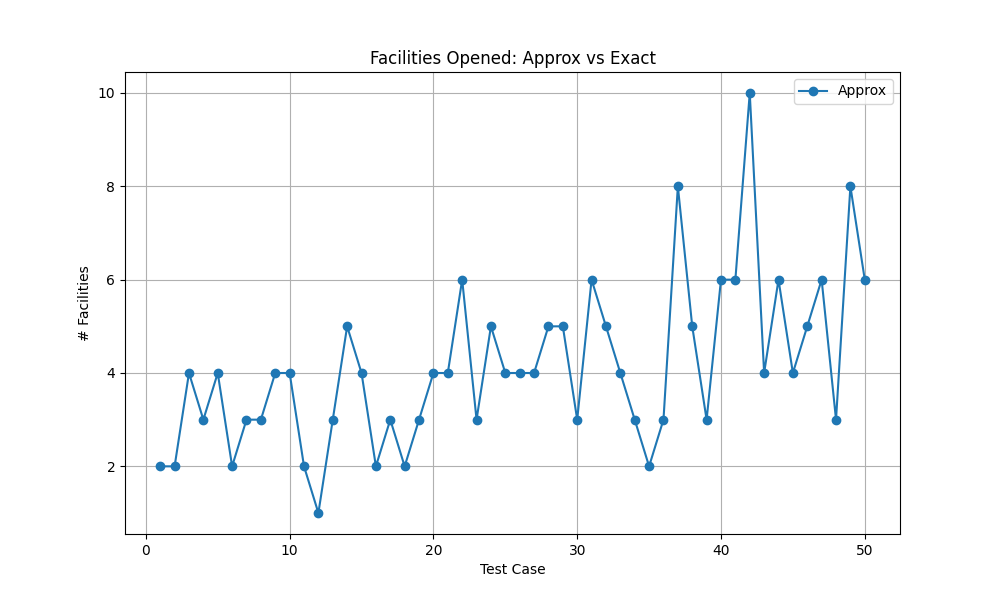
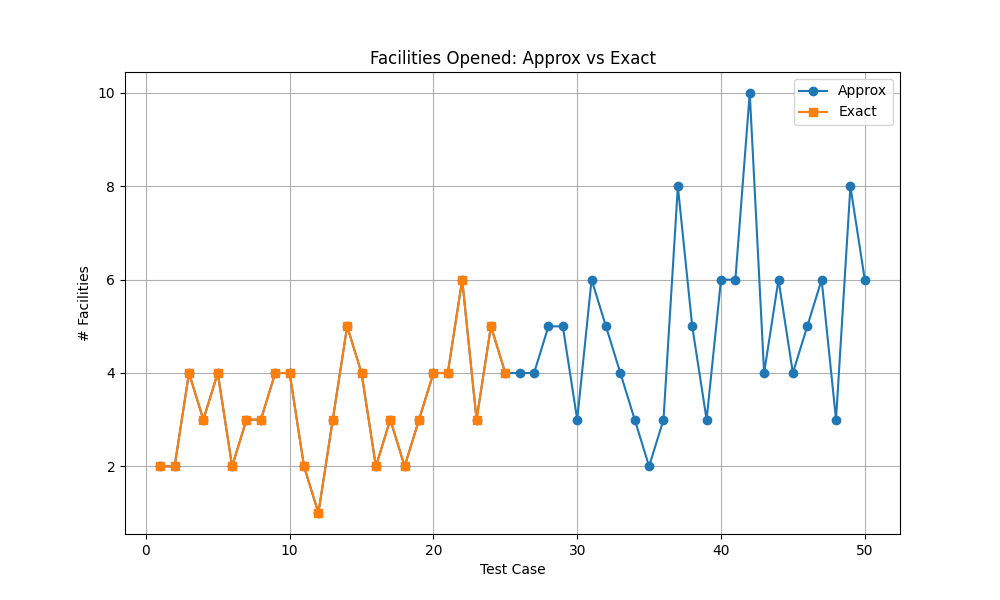
change my out put to include total distance, made my plot parser able to parser the exact solution code

diff --git a/blake_approx_solution/make_plots.py b/blake_approx_solution/make_plots.py
@@ -7,7 +7,16 @@ import matplotlib.pyplot as plt
 BASE_DIR = os.path.dirname(os.path.abspath(__file__))
 TESTCASE_DIR = os.path.join(BASE_DIR, "..", "testcases")
 APPROX_OUT_DIR = os.path.join(BASE_DIR, "test")
-EXACT_OUT_DIR = os.path.join(BASE_DIR, "..", "exact_solution", "outputs")
+# EXACT_OUT_DIR = os.path.join(BASE_DIR, "..", "exact_solution", "outputs")
+
+EXACT_OUT_DIR = os.path.join(
+    BASE_DIR,
+    "..",
+    "exact_solution",
+    "realistic_test_cases",
+    "outputs"
+)
+
 
 SOLVER = os.path.join(BASE_DIR, "facility_location_approx_blake.py")
 
@@ -46,33 +55,100 @@ def parse_input(path):
 # Output Parsing
 # -------------------------------------------------------------
 def parse_output(path):
+    """
+    Parse either:
+      (A) Approx format from Blake/Dustin:
+
+            Total distance: ...
+            Open facilities:
+            F1 F3 F7
+
+            Coverage:
+            F1 covers: C1 C4
+            F3 covers: C2
+            F7 covers: C3 C5
+
+      (B) Exact solver format:
+
+            === OPTIMAL SOLUTION FOUND ===
+            Coverage distance: 61.56
+            Facilities chosen (2):
+              F4 at (60.04, 31.82)
+              F5 at (66.98, 96.69)
+
+            Coverage mapping:
+            F4 covers: C1, C2, C3, C5, C6, C8, C9
+            F5 covers: C1, C2, C4, C7, C9
+    """
     if not os.path.exists(path):
         return None, None
 
     with open(path) as f:
-        lines = f.read().splitlines()
+        lines = [line.rstrip("\n") for line in f]
 
+    # --------- Case A: approx format ("Open facilities") ----------
+    if any("Open facilities" in line for line in lines):
+        mode = None
+        open_facs: list[str] = []
+        coverage: dict[str, list[str]] = {}
+
+        for line in lines:
+            s = line.strip()
+            if not s:
+                continue
+            if s.startswith("Open facilities"):
+                mode = "open"
+                continue
+            if s.startswith("Coverage"):
+                mode = "cov"
+                continue
+            if mode == "open":
+                # line with facility names: "F1 F3 F7"
+                open_facs = s.split()
+            if mode == "cov" and "covers:" in s:
+                fac, rest = s.split("covers:")
+                fac = fac.strip()
+                coverage[fac] = rest.strip().split()
+
+        if not open_facs:
+            return None, None
+        return open_facs, coverage
+
+    # --------- Case B: exact solver format ("Facilities chosen" / "Coverage mapping") ----------
     mode = None
-    open_facs = []
-    coverage = {}
+    open_facs: list[str] = []
+    coverage: dict[str, list[str]] = {}
 
     for line in lines:
         s = line.strip()
         if not s:
             continue
-        if s.startswith("Open"):
-            mode = "open"
+
+        if s.startswith("Facilities chosen"):
+            mode = "chosen"
             continue
-        if s.startswith("Coverage"):
-            mode = "cov"
+        if s.startswith("Coverage mapping"):
+            mode = "covmap"
             continue
-        if mode == "open":
-            open_facs = s.split()
-        if mode == "cov" and "covers:" in s:
+
+        if mode == "chosen":
+            # Example: "F2 at (54.5, 90.05)"
+            parts = s.split()
+            if parts:
+                fac_name = parts[0]   # "F2"
+                open_facs.append(fac_name)
+
+        elif mode == "covmap" and "covers:" in s:
+            # Example: "F2 covers: C1, C6, C7"
             fac, rest = s.split("covers:")
             fac = fac.strip()
-            coverage[fac] = rest.strip().split()
+            # split, strip commas
+            tokens = [tok.strip().strip(",") for tok in rest.strip().split()]
+            clients = [t for t in tokens if t]   # remove empties
+            coverage[fac] = clients
 
+    if not open_facs:
+        return None, None
     return open_facs, coverage
 
 
@@ -153,7 +229,7 @@ def generate_all_plots():
         case_id = int(fname.split("_")[2].split(".")[0])
         input_path = os.path.join(TESTCASE_DIR, fname)
         approx_out = os.path.join(APPROX_OUT_DIR, fname.replace(".txt", "_out.txt"))
-        exact_out = os.path.join(EXACT_OUT_DIR, fname.replace(".txt", "_out.txt"))
+        exact_out = os.path.join(EXACT_OUT_DIR, fname.replace(".txt", ".out"))
 
         clients, facs, cov = parse_input(input_path)
         approx_open, approx_cov = parse_output(approx_out)

diff --git a/blake_approx_solution/facility_location_approx_blake.py b/blake_approx_solution/facility_location_approx_blake.py
@@ -158,6 +158,8 @@ def write_solution(
     
     """
     Print solution in the agreed format:
+    
+        Total distance: <value>
 
         Open facilities:
         F1 F3 F7
@@ -169,6 +171,17 @@ def write_solution(
     """
     facs = inst.facilities
     clts = inst.clients
+    
+    # ---- compute total distance of this solution ----
+    total_dist = 0.0
+    for ci, fj in assignment.items():
+        c = clts[ci]
+        f = facs[fj]
+        total_dist += euclidean(c.x, c.y, f.x, f.y)
+
+    # print total distance first (for humans)
+    print(f"Total distance: {total_dist:.4f}", file=out)
+    print("", file=out)
 
     print("Open facilities:", file=out)
     names = [facs[j].name for j in sorted(open_facilities)]
